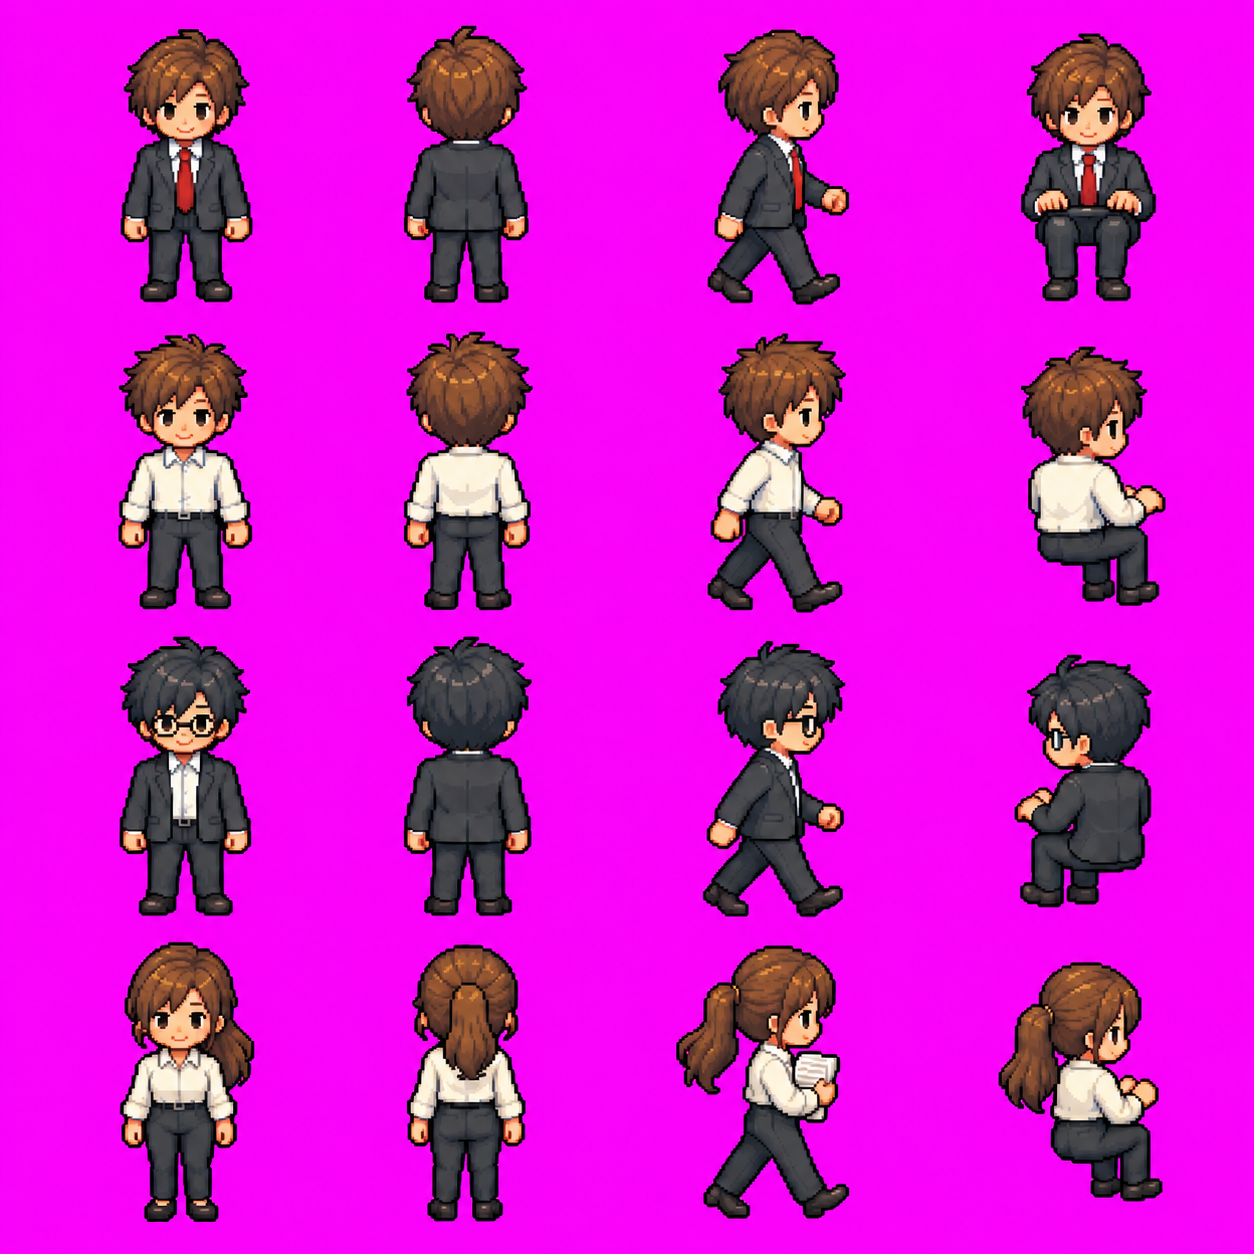
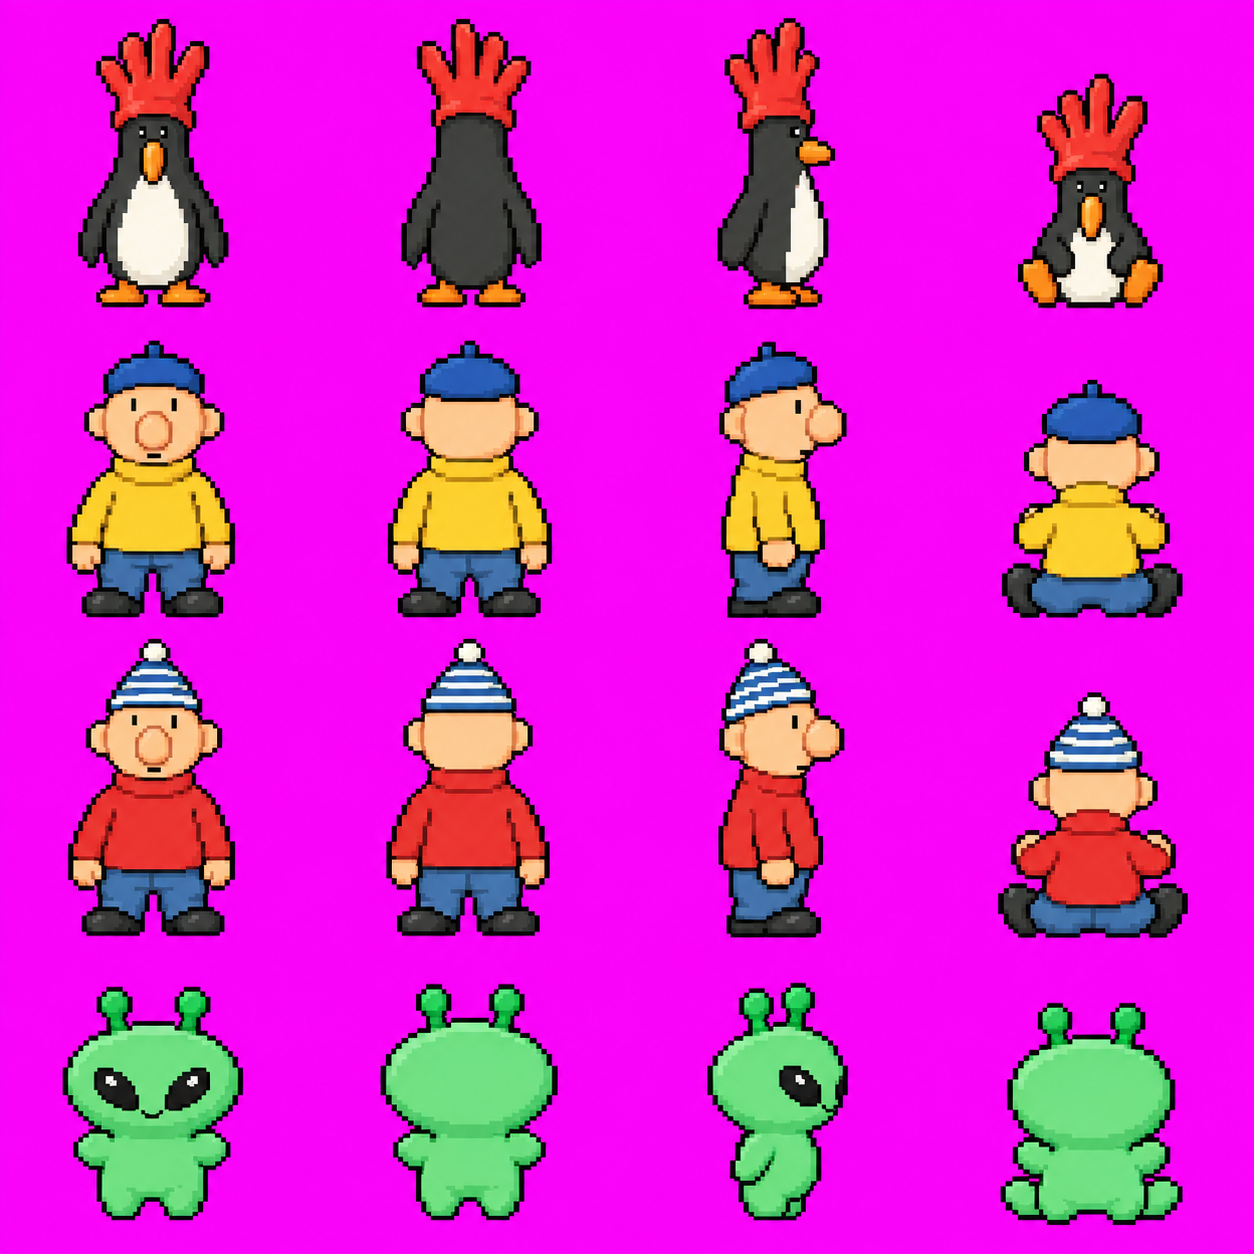
feat(ui): 두 방 집 배경과 새 캐릭터 걷기 에셋 추가

diff --git a/frontend/assets/office-walk.prompt.md b/frontend/assets/office-walk.prompt.md
@@ -1,4 +1,45 @@
-# 걷기 애니메이션 에셋
+# 현재 캐릭터 걷기 에셋
+
+기존 이동 거리 기반 4프레임 재생 로직에 페더스 맥그로·패트·매트·게왹이의 새 그림을 연결했습니다. 정면·뒷모습·오른쪽 각각 4×4 시트이며 왼쪽은 오른쪽을 런타임에 반전합니다. 모든 방향은 열 순서대로 재생합니다. 짧은 반복 걸음으로 표현하며 프레임 사이를 보간하지 않습니다.
+
+도구: built-in `image_gen`. 참조는 현재 기본 캐릭터 시트입니다.
+최종 생성 원본 폴더: `/Users/anjeongseob/.codex/generated_images/01a09e8f-b7c6-7990-aeaf-b83cc9294f84/`.
+- 정면: `exec-32970f61-cda5-489f-a6e6-0b41df31208b.png` (초기 `exec-a78b867b-b452-45c3-b44b-ecbffbda5547.png`에서 다리 보정).
+- 후면: `exec-df1ce766-fd92-4aa4-b214-a6489ae4eb02.png`.
+- 오른쪽: `exec-c6c0618f-a697-47d2-bccf-4ed25069b445.png`.
+
+## 현재 front 생성 프롬프트
+
+Generate a production WALK CYCLE sprite atlas for the supplied approved four-character base atlas. Exact identities, hats, faces, body proportions and fine pixel style MUST match. Output exactly FOUR equal COLUMNS by FOUR equal ROWS on uniform pure MAGENTA #ff00ff. One full-body sprite centered inside each cell, baseline matched across row, ample padding. No text, grid, arrows, ground, cast shadows, floor, chair, desk, paper or props. Fixed body/head scale across all four frames, no squashing/stretched faces.
+ROWS: 1 Feathers McGraw black penguin/white front belly/orange feet and beak, the RED RUBBER GLOVE HAT with all fingers visible in EVERY frame. 2 PAT yellow sweater, blue flat beret, blue trousers and black shoes. 3 MAT red sweater, BLUE-WHITE STRIPED POM-POM HAT, blue trousers/black shoes. 4 mint-green ARTBOX ALIEN, broad head, TWO round-tip antennae, black almond eyes on FRONT ONLY, tiny smiling mouth, stubby green arms and legs, no clothing.
+COLUMNS are FOUR CONSECUTIVE WALK PHASES in temporal order: 1 left-leg contact/right-arm forward, 2 passing with feet close and one heel lifted, 3 right-leg contact/left-arm forward, 4 opposite passing phase with feet close and other heel lifted. Real alternating feet and opposite arm swing, small readable changes. Each column is visually distinct and the fourth loops into first. No interpolation blur; limited-frame classic pixel walking is desired. Penguin waddles with alternating orange feet and subtle flipper counter-swing; alien bobs with alternating short legs, two antennae stay stable. Keep hats/red glove fully inside cells, no detached bits and no duplicating an extra eye on the back.
+DIRECTION LOCK: ALL SIXTEEN FIGURES FACE STRICTLY FRONT, toward the viewer/downward as in base atlas column 1. Faces and both eyes visible in every frame, faces straight forward, never turn sideways. Show the approved front appearance during walking.
+
+## 현재 back 생성 프롬프트
+
+Generate a production WALK CYCLE sprite atlas for the supplied approved four-character base atlas. Exact identities, hats, faces, body proportions and fine pixel style MUST match. Output exactly FOUR equal COLUMNS by FOUR equal ROWS on uniform pure MAGENTA #ff00ff. One full-body sprite centered inside each cell, baseline matched across row, ample padding. No text, grid, arrows, ground, cast shadows, floor, chair, desk, paper or props. Fixed body/head scale across all four frames, no squashing/stretched faces.
+ROWS: 1 Feathers McGraw black penguin/white front belly/orange feet and beak, the RED RUBBER GLOVE HAT with all fingers visible in EVERY frame. 2 PAT yellow sweater, blue flat beret, blue trousers and black shoes. 3 MAT red sweater, BLUE-WHITE STRIPED POM-POM HAT, blue trousers/black shoes. 4 mint-green ARTBOX ALIEN, broad head, TWO round-tip antennae, black almond eyes on FRONT ONLY, tiny smiling mouth, stubby green arms and legs, no clothing.
+COLUMNS are FOUR CONSECUTIVE WALK PHASES in temporal order: 1 left-leg contact/right-arm forward, 2 passing with feet close and one heel lifted, 3 right-leg contact/left-arm forward, 4 opposite passing phase with feet close and other heel lifted. Real alternating feet and opposite arm swing, small readable changes. Each column is visually distinct and the fourth loops into first. No interpolation blur; limited-frame classic pixel walking is desired. Penguin waddles with alternating orange feet and subtle flipper counter-swing; alien bobs with alternating short legs, two antennae stay stable. Keep hats/red glove fully inside cells, no detached bits and no duplicating an extra eye on the back.
+DIRECTION LOCK: ALL SIXTEEN FIGURES FACE STRICTLY BACK, away from viewer/upward as in base atlas column 2. No eyes, nose, beak, smile or facial markings visible anywhere on ANY back of a head. Penguin back and flippers are black with no white belly visible. Alien back head is plain green. Heads NEVER rotate; movement is only limbs and small weight shift.
+
+## 현재 right 생성 프롬프트
+
+Generate a production WALK CYCLE sprite atlas for the supplied approved four-character base atlas. Exact identities, hats, faces, body proportions and fine pixel style MUST match. Output exactly FOUR equal COLUMNS by FOUR equal ROWS on uniform pure MAGENTA #ff00ff. One full-body sprite centered inside each cell, baseline matched across row, ample padding. No text, grid, arrows, ground, cast shadows, floor, chair, desk, paper or props. Fixed body/head scale across all four frames, no squashing/stretched faces.
+ROWS: 1 Feathers McGraw black penguin/white front belly/orange feet and beak, the RED RUBBER GLOVE HAT with all fingers visible in EVERY frame. 2 PAT yellow sweater, blue flat beret, blue trousers and black shoes. 3 MAT red sweater, BLUE-WHITE STRIPED POM-POM HAT, blue trousers/black shoes. 4 mint-green ARTBOX ALIEN, broad head, TWO round-tip antennae, black almond eyes on FRONT ONLY, tiny smiling mouth, stubby green arms and legs, no clothing.
+COLUMNS are FOUR CONSECUTIVE WALK PHASES in temporal order: 1 left-leg contact/right-arm forward, 2 passing with feet close and one heel lifted, 3 right-leg contact/left-arm forward, 4 opposite passing phase with feet close and other heel lifted. Real alternating feet and opposite arm swing, small readable changes. Each column is visually distinct and the fourth loops into first. No interpolation blur; limited-frame classic pixel walking is desired. Penguin waddles with alternating orange feet and subtle flipper counter-swing; alien bobs with alternating short legs, two antennae stay stable. Keep hats/red glove fully inside cells, no detached bits and no duplicating an extra eye on the back.
+DIRECTION LOCK: ALL SIXTEEN FIGURES FACE STRICTLY RIGHT in clean side profile as in base atlas column 3. Nose/beak and face at image-right, backs at left, all walking to the RIGHT in every column. Profile head and hat retain same silhouette as the approved right-facing base. Legs alternate front/back and arms counter-swing. No front or back view.
+
+## 현재 정면 걸음 보정 프롬프트
+
+Surgical walk-cycle correction of this EXACT 4x4 front-facing sprite atlas. Preserve the pure magenta background, equal grid cells, all sprite positions, all faces, hats, heads, torso sizes, pixel style, row1 penguin and row4 alien completely unchanged.
+ONLY correct the legs and arms of PAT (yellow shirt, ROW2) and MAT (red shirt, ROW3). They currently repeat the SAME forward leg in all four columns. This must become an alternating walk sequence:
+COLUMN1: keep current contact step, shoe on viewer RIGHT lower/forward, shoe on viewer LEFT higher/back.
+COLUMN2: passing pose, both feet nearly aligned below hips, viewer-LEFT heel lifted. Arms closer to body.
+COLUMN3: REVERSE the legs from column1: shoe on viewer LEFT lower/forward, shoe on viewer RIGHT higher/back. Arm swing also reverses from column1.
+COLUMN4: passing pose, feet nearly aligned, viewer-RIGHT heel lifted. Arms closer to body.
+The third column must CLEARLY use the opposite forward leg from the first. The four frames form LEFT step / passing / RIGHT step / passing. No head turning, no resizing, no facial changes, no swapping clothes, no torso wobble. Keep all faces looking directly toward viewer, same hat silhouette. Modify LOWER LIMBS and arm swing only in rows2 and3. All other pixels should remain unchanged. No text or props.
+
+# 이전 사람 캐릭터 걷기 제작 기록
 
 ## 정면 이벤트 캐릭터 연속성 보정
 
@@ -65,4 +106,3 @@ COLUMN TWO is passing: near leg planted under body, far leg swinging past; keep 
 COLUMN THREE is opposite contact: swap the arm and leg layering and actions from column ONE. Now the visible NEAR arm swings FORWARD to screen right and the near leg extends BACKWARD toward screen left. The FAR leg reaches forward toward screen right. Show the near thigh and back shoe clearly crossing in FRONT of the far leg. Do not simply duplicate column ONE. The shoulders and hair face same direction.
 COLUMN FOUR is opposite passing: visible NEAR leg bends at the knee and lifts the knee FORWARD toward screen right; its lifted shoe below the knee is in front of the standing far leg, with toes facing right. Far leg is straight and planted under body. Near arm passes center, far arm counter-swings. Do not repeat the foot lifted BEHIND body from column TWO.
 Woman keeps papers tucked against her chest in the same arm in all four cells; only free arm swings. Preserve each person's head and upper torso structure. Full-body modest relaxed walking, NO running, NO jumping, no extra legs, no shadows, no props added. All four phases visibly alternate the near leg and far leg. Do not change scale or cell positions.
-

diff --git a/frontend/assets/README.md b/frontend/assets/README.md
@@ -1,13 +1,13 @@
 # Tomade 도트 사무실 배경
 
-`research-office.png`는 사용자가 승인한 간소화 배경입니다. 토마토 로고·중앙 러그·네 작업 공간을 유지하고 책더미, 벽 장식, 화분과 복잡한 무늬를 줄였습니다. built-in `image_gen` 편집 원본은 별도로 보존했으며 실제 캐릭터와 대화는 HTML·Canvas로 표시합니다. [최종 배경 프롬프트](research-office.prompt.md)를 함께 보존했습니다.
+`research-office.png`는 사용자가 승인한 두 방 구조의 16:10 배경입니다. 패트와 매트 집 분위기의 목재 가구·체크 커튼·녹색 난로를 유지하고, 직원 사무실은 밝은 나무 짜임 바닥, 부장실은 연녹색·아이보리 체크 타일로 구분합니다. 토마토는 로고와 작은 소품에만 남겼습니다. built-in `image_gen`으로 시안 속 캐릭터와 대화하기 표시를 지웠으며, 실제 캐릭터와 대화는 HTML·Canvas로 표시합니다. [최종 배경 프롬프트](research-office.prompt.md)를 함께 보존했습니다.
 
 세 Worker 모니터에는 비즈니스의 실적 막대 차트, 매크로/섹터의 시장 추세선·산업 블록, 이벤트/카탈리스트의 일정·뉴스 목록을 표시합니다. 역할을 구분하는 배경 그래픽이며 실시간 데이터나 실제 조사 결과를 표시하지 않습니다. 부장 모니터는 좌석 방향에 맞춰 뒷면을 유지합니다.
 
-`office-characters.png`는 같은 시안의 네 인물을 기준으로 built-in `image_gen`으로 만든 캐릭터 시트입니다. 4개 행은 부장·비즈니스·매크로·이벤트이며, 각 행의 4개 자세는 정면·뒷모습·오른쪽 걷기·착석입니다. 시트의 자홍색 배경은 파일의 투명 채널이 아니므로 `office-scene.ts`에서 로딩 시 한 번 투명 처리합니다. 원본 그림의 비율을 유지해 128×160 Canvas에 표시하며 부장 초상화도 같은 시트에서 가져옵니다. 얼굴을 도형으로 다시 그리지 않습니다.
+`office-characters.png`는 승인한 캐릭터 디자인을 기준으로 built-in `image_gen`으로 만든 4×4 시트입니다. 행은 부장 페더스 맥그로·비즈니스 패트·매크로/섹터 매트·이벤트/카탈리스트 게왹이, 열은 정면·뒷모습·오른쪽·착석입니다. 부장은 정면, 직원은 뒷모습으로 앉습니다. 시트의 자홍색 배경은 `office-scene.ts`에서 로딩 시 한 번 투명 처리합니다. 원본 그림의 비율을 유지해 128×160 Canvas에 표시하며 부장 초상화도 같은 시트에서 가져옵니다. 착석 시 같은 배경의 가구 부분을 앞에 겹쳐 상체와 의자 등받이가 자연스럽게 보이도록 합니다.
 
 캐릭터 생성·편집 프롬프트는 [office-characters.prompt.md](office-characters.prompt.md)에 보존했습니다.
 
-`office-walk-front.png`·`office-walk-back.png`·`office-walk-right.png`는 같은 네 인물의 방향별 4단계 걷기 시트입니다. 전신 그림을 교체해 팔·다리를 번갈아 움직이고, 실제 이동 거리에 따라 프레임을 진행합니다. 정지 시 기본 시트로 돌아갑니다. 화면상의 캐릭터와 클릭 영역은 종전보다 20% 확대했습니다. 생성 및 보정에 사용한 built-in `image_gen` 프롬프트는 [office-walk.prompt.md](office-walk.prompt.md)에 보존했습니다.
+`office-walk-front.png`·`office-walk-back.png`·`office-walk-right.png`는 같은 네 캐릭터의 방향별 4프레임 걷기 시트입니다. 기존 이동·착석·보고 로직을 사용하며 실제 이동 거리에 맞춰 짧은 걸음을 반복하고, 정지하면 기본 시트로 돌아갑니다. 왼쪽은 오른쪽 그림을 반전합니다. 가로로 긴 방에서도 상하·좌우의 이동 속도와 걸음 간격이 같도록 거리 계산에 방 비율을 반영합니다. 생성 및 보정에 사용한 built-in `image_gen` 프롬프트는 [office-walk.prompt.md](office-walk.prompt.md)에 보존했습니다.
 
 이전의 장식이 많은 배경은 Git 이력에 보존되어 있습니다.

diff --git a/frontend/assets/office-characters.prompt.md b/frontend/assets/office-characters.prompt.md
@@ -1,4 +1,30 @@
-## 캐릭터 시트 생성 프롬프트
+# 현재 캐릭터 시트
+
+`office-characters.png`의 행은 페더스 맥그로·패트·매트·게왹이, 열은 정면·뒷모습·오른쪽·착석입니다. 부장만 정면으로 앉고 직원 셋은 뒷모습으로 앉습니다. 자홍색 배경은 런타임에 제거합니다.
+
+도구: built-in `image_gen`.
+참조 시안: `exec-58db9b99-c5a5-46da-b912-dad29d9179c1.png`.
+최종 원본: `/Users/anjeongseob/.codex/generated_images/01a09e8f-b7c6-7990-aeaf-b83cc9294f84/exec-e100ade4-6323-418a-95ee-14369c18da80.png`.
+
+## 현재 시트 생성 프롬프트
+
+Production sprite atlas for Tomade. Use the supplied CHARACTER DESIGN SHEET only as identity/style reference. Output a PERFECTLY REGULAR 4 COLUMN by 4 ROW sprite atlas on uniform solid saturated MAGENTA #ff00ff background. Exactly sixteen isolated full-body character sprites, one per equal square cell. No labels, words, borders, chairs, desk, shadows, props, icons, ground, scene or decorative elements. No spill across cell boundaries. Generous magenta padding on every side including head and feet. Keep every sprite of a character the same body size across its row, baseline aligned. Crisp deliberate fine square pixel art, no smooth vector rendering, intact small eyes and faces.
+
+ROWS top to bottom:
+1 Feathers McGraw from reference: black penguin, white belly, tiny black deadpan eyes, orange beak and feet, tall RED RUBBER GLOVE HAT on his head in EVERY pose. Preserve visible finger silhouette, white belly only on front, solid black back. No suit/human hands.
+2 PAT: yellow sweater, solid blue FLAT BERET, peach round bald face/bulb nose, blue trousers, black shoes.
+3 MAT: red sweater, blue-and-white horizontal striped BEANIE with white pom-pom, peach round bald face/bulb nose, blue trousers, black shoes.
+4 The exact mint green ARTBOX ALIEN from the reference: large wide round head, TWO round-tipped antennae, TWO large slanted black almond eyes with white dots, small black smile, compact green star-like body with two short legs. Same shape across directions. No clothes/chain/ears.
+
+COLUMNS left to right:
+1 FRONT: standing neutral, face directed down toward viewer, both feet fully visible.
+2 BACK: standing neutral facing away/upward, absolutely NO face, NO eyes or nose on back of head. Back of penguin fully black, hat remains; Pat and Mat show their cap backs; alien's back has NO face.
+3 RIGHT PROFILE: neutral standing facing image RIGHT, nose/beak and eye(s) on right side, back on left. Full body, legs distinguishable.
+4 SEATED WORKING: ROW1 penguin faces FRONT toward viewer with flippers extending slightly forward, lower body sitting. ROWS2/3/4 face strictly BACK/upward toward a desk that is NOT DRAWN: backs of heads and bodies visible, arms extended forward, slightly bent seated legs. Do not draw any chair, table, keyboard, desk or detached object. The atlas will be layered over real furniture.
+
+Characters are coherent simplified pixel sprites based faithfully on supplied designs. Keep the source clothing, hats, alien face, red glove hat. No redesign or larger anime eyes. All four rows use the same pixel density. Return only the atlas.
+
+## 이전 사람 캐릭터 시트 생성 프롬프트
 
 Use case: identity-preserve / game sprite asset extraction. The provided image is the APPROVED character identity and pixel-art style reference. Create a production SPRITE ATLAS of the SAME FOUR people, faithfully preserving their faces, hairstyles, proportions, outfits and rich fine-pixel RPG art. The atlas will replace crude programmatically drawn avatars in this office. The reference faces are the target, not a suggestion. Exactly FOUR CHARACTER IDENTITIES repeated across poses.
 

diff --git a/frontend/assets/research-office.prompt.md b/frontend/assets/research-office.prompt.md
@@ -1,4 +1,16 @@
-# 간소화한 사무실 배경
+# 두 방 구조의 Tomade 집 배경
+
+현재 `research-office.png`는 사용자가 승인한 패트와 매트 집 분위기의 16:10 시안을 적용한 배경입니다. 직원 사무실은 밝은 나무 짜임 바닥, 부장실은 연녹색·아이보리 체크 타일이며, 캐릭터와 대화하기 표시는 런타임에 별도로 표시합니다.
+
+승인 시안: `exec-2b65bf7c-0af1-408e-92bd-5c41dcb5d1ef.png`.
+최종 배경 원본: `/Users/anjeongseob/.codex/generated_images/01a09e8f-b7c6-7990-aeaf-b83cc9294f84/exec-19ada987-a2f1-497f-8ae8-1f62581fed79.png`.
+도구: built-in `image_gen`.
+
+## 현재 배경의 캐릭터 분리 프롬프트
+
+Precise-object-edit for a production game background. Remove ONLY the FOUR CHARACTERS and the white "대화하기" speech bubble from this approved two-room Tomade house image. Remove Pat at the upper-left desk, Mat at the upper-middle desk, green alien near the lower-left desk, and penguin on the beige rug, including their shadows. Restore the floors/rug beneath them and the EMPTY wooden chairs, desktops and keyboards naturally. Exactly four desks and four empty chairs remain. NO people, no animals, no alien, no speech bubble or click prompt baked into the background. Everything else must stay in the same position and shape: 16:10 landscape canvas, straight 90-degree walls and open central doorway, bright basket-weave parquet employee room, ivory/sage checker-tile manager room, exact furniture locations, windows, stove, sofa, beige rug, tomato details and all Korean desk/room labels and Tomade. Keep current fine pixel style and role-specific monitor screens. Surgical removal, not a redesign.
+
+## 이전 한 방 배경 제작 기록
 
 사용자가 승인한 배경을 built-in image_gen으로 편집해 `research-office.png`에 적용했습니다. 간소화 원본: `exec-34eebd55-6097-4030-8d76-f9d0b0c0f9b8.png`. 모니터 역할 화면을 추가한 최종 원본: `/Users/anjeongseob/.codex/generated_images/01a09e8f-b7c6-7990-aeaf-b83cc9294f84/exec-27e79b7b-fb26-4659-b4b2-424efa95ed71.png`. 네 캐릭터는 이 배경에 포함되지 않으며 별도 Canvas로 움직입니다.
 
